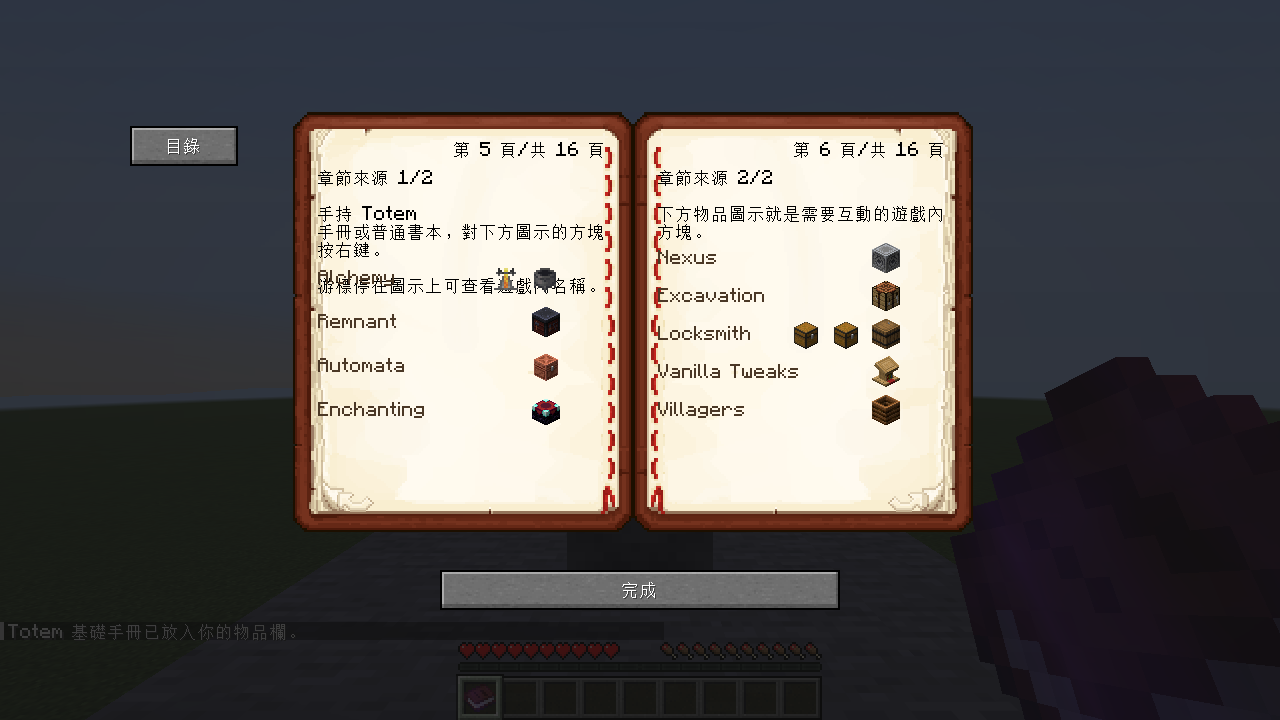
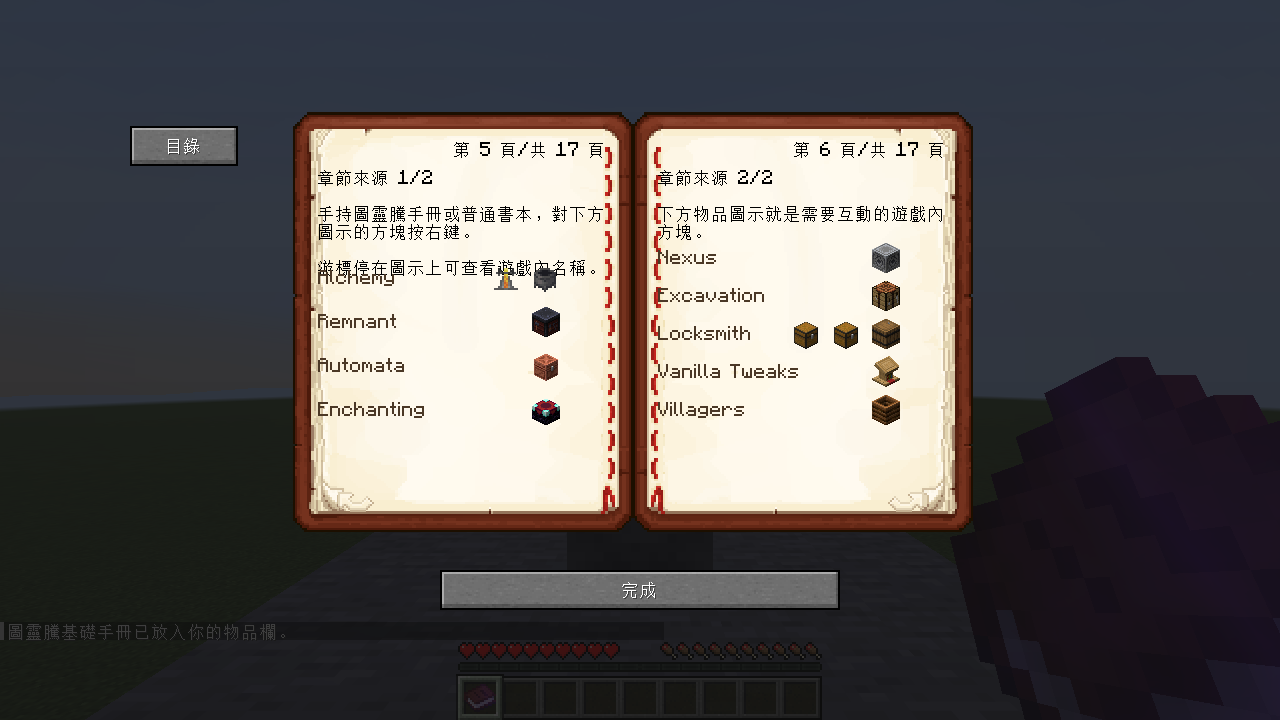
Release 0.1.51: fix Creative tab and Chinese manual names

Changed region(s): [[0.25, 0.275, 0.4688, 0.4278], [0.0, 0.8556, 0.2188, 0.8861]]

diff --git a/src/gametest/java/dev/totem/alchemy/client/AlchemyCreativeTabVisualGameTest.java b/src/gametest/java/dev/totem/alchemy/client/AlchemyCreativeTabVisualGameTest.java
@@ -23,12 +23,30 @@ public final class AlchemyCreativeTabVisualGameTest implements FabricClientGameT
             singleplayer.getClientLevel().waitForChunksRender();
             singleplayer.getServer().runCommand("gamemode creative @a");
             context.waitFor(AlchemyCreativeTabVisualGameTest::hasCreativeAbilities);
-            context.runOnClient(AlchemyCreativeTabVisualGameTest::openCreativeScreen);
-            context.waitTicks(20);
-            context.runOnClient(AlchemyCreativeTabVisualGameTest::selectAlchemyCreativeTab);
-            context.waitTicks(2);
-            context.takeScreenshot("totem-alchemy-creative-showcase");
-            context.runOnClient(AlchemyCreativeTabVisualGameTest::closeScreen);
+            for (String locale : List.of("en_us", "zh_tw")) {
+                java.util.concurrent.atomic.AtomicReference<java.util.concurrent.CompletableFuture<Void>> reload =
+                        new java.util.concurrent.atomic.AtomicReference<>();
+                context.runOnClient(client -> {
+                    client.options.languageCode = locale;
+                    client.getLanguageManager().setSelected(locale);
+                    reload.set(client.reloadResourcePacks());
+                });
+                context.waitFor(client -> reload.get() != null && reload.get().isDone());
+                context.runOnClient(AlchemyCreativeTabVisualGameTest::openCreativeScreen);
+                context.waitTicks(20);
+                context.runOnClient(AlchemyCreativeTabVisualGameTest::selectAlchemyCreativeTab);
+                context.waitTicks(2);
+                context.runOnClient(client -> {
+                    var tab = BuiltInRegistries.CREATIVE_MODE_TAB.getValue(Identifier.parse("totem:alchemy/main"));
+                    String expected = locale.equals("zh_tw") ? "圖靈騰煉金" : "Totem Alchemy";
+                    if (!tab.getDisplayName().getString().equals(expected)) {
+                        throw new AssertionError("Untranslated Alchemy tab: " + tab.getDisplayName().getString());
+                    }
+                });
+                context.takeScreenshot(locale.equals("en_us")
+                        ? "totem-alchemy-creative-showcase" : "totem-alchemy-creative-zh_tw");
+                context.runOnClient(AlchemyCreativeTabVisualGameTest::closeScreen);
+            }
         }
     }
 
@@ -70,7 +88,7 @@ public final class AlchemyCreativeTabVisualGameTest implements FabricClientGameT
             boolean selected = (Boolean) screenExtension
                     .getMethod("setSelectedTab", tabClass)
                     .invoke(creativeScreen, tab);
-            if (!selected) {
+            if (!selected && screenExtension.getMethod("getSelectedTab").invoke(creativeScreen) != tab) {
                 throw new IllegalStateException("Could not switch to the Alchemy Creative tab");
             }
         } catch (ReflectiveOperationException exception) {

diff --git a/src/gametest/java/dev/totem/alchemy/client/AlchemyManualVisualGameTest.java b/src/gametest/java/dev/totem/alchemy/client/AlchemyManualVisualGameTest.java
@@ -46,7 +46,7 @@ public final class AlchemyManualVisualGameTest implements FabricClientGameTest {
         });
         context.waitFor(client -> reload.get() != null && reload.get().isDone());
         context.runOnClient(client -> {
-            if (!I18n.get("book.totem.alchemy_manual.title").equals("Alchemy 煉金手冊")) {
+            if (!I18n.get("book.totem.alchemy_manual.title").equals("圖靈騰煉金手冊")) {
                 throw new AssertionError("Traditional Chinese Alchemy manual resources were not loaded");
             }
             if (!I18n.get("book.totem_alchemy.material_slot.red_mushroom").isEmpty()) {

diff --git a/src/main/java/dev/totem/alchemy/registry/AlchemyItemGroups.java b/src/main/java/dev/totem/alchemy/registry/AlchemyItemGroups.java
@@ -26,7 +26,7 @@ public final class AlchemyItemGroups {
         if (BuiltInRegistries.CREATIVE_MODE_TAB.getOptional(TAB_KEY).isEmpty()) {
             Registry.register(BuiltInRegistries.CREATIVE_MODE_TAB, TAB_KEY,
                     FabricCreativeModeTab.builder()
-                            .title(Component.translatable("itemGroup.totem_alchemy.main"))
+                            .title(Component.translatable("itemGroup.totem.alchemy.main"))
                             .icon(() -> new ItemStack(AlchemyItems.CHERRY_BREW))
                             .build());
         }

diff --git a/.github/staging/modrinth-changelog-0.1.51.md b/.github/staging/modrinth-changelog-0.1.51.md
@@ -1,0 +1,7 @@
+# TotemAlchemy 0.1.51
+
+- Fix the Creative-tab translation key so the title resolves correctly in all supported languages, including 圖靈騰煉金 in Traditional Chinese.
+- Use consistent Chinese module names throughout Traditional Chinese manuals and related references; preserve commands and identifiers.
+- Require TotemCore 0.7.21 or newer (below 0.8.0) for the matching localized shared manual.
+
+Minecraft 26.2 · Fabric · Java 25.

diff --git a/README.md b/README.md
@@ -40,7 +40,7 @@ Client 與 Server 都放入：
 | Minecraft | 26.2 |
 | Fabric Loader | 0.19.3+ |
 | Java | 25+ |
-| 必要 Totem 模組 | `totem-core >=0.7.18 <0.8.0` |
+| 必要 Totem 模組 | `totem-core >=0.7.21 <0.8.0` |
 
 Alchemy 不依賴其他功能模組。所有新的煉金遊戲內容都使用
 `totem:alchemy/*` canonical ID；不會註冊 `deadrecall:*` 作為可遊玩的
